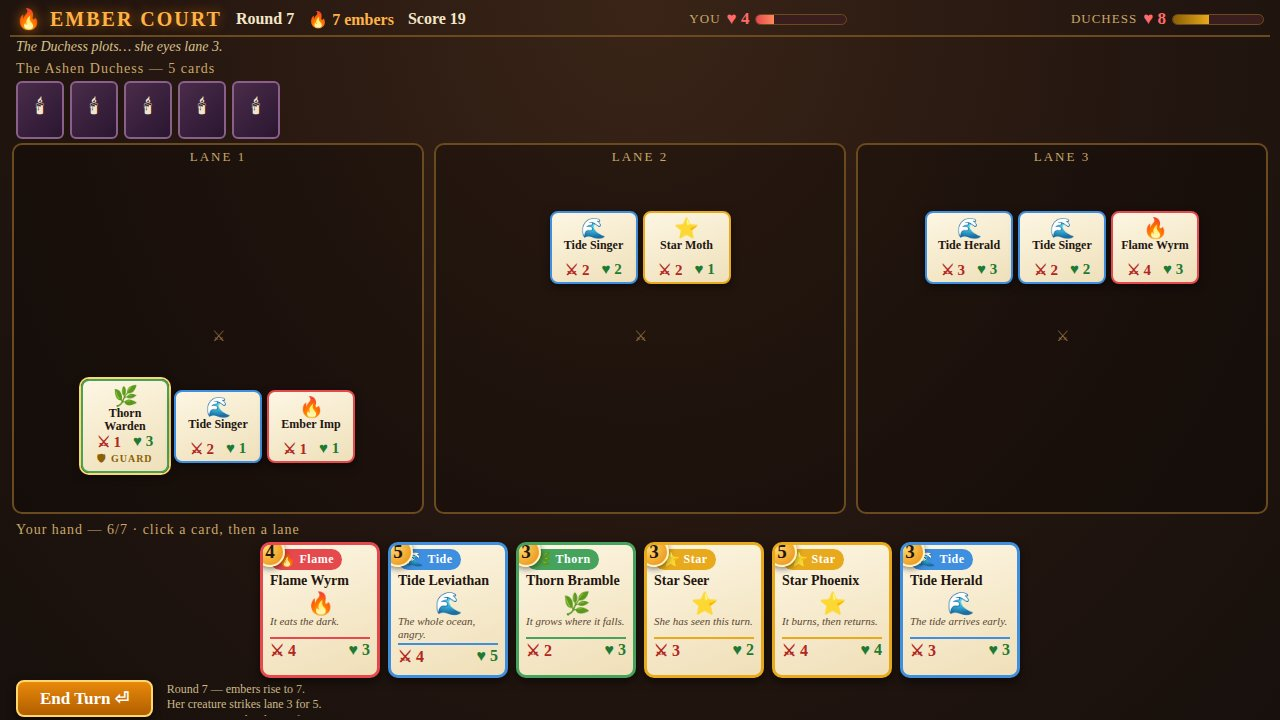
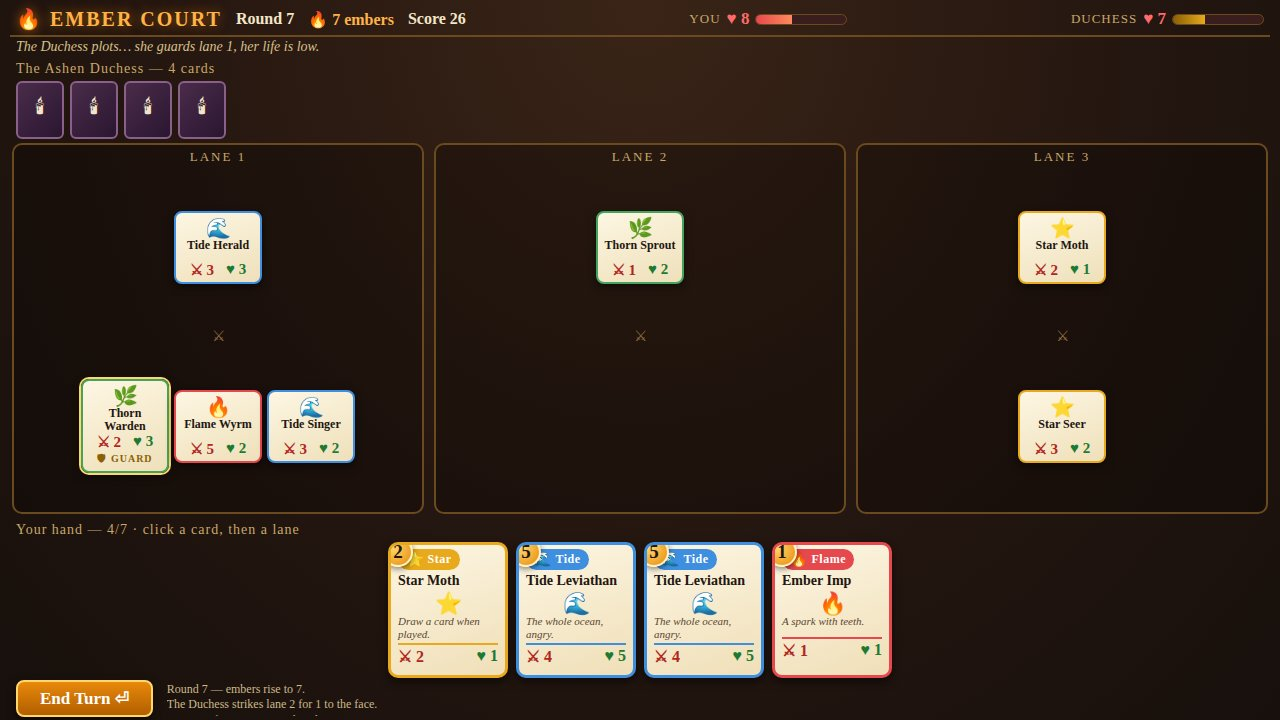
Fix High Tide per-turn, starting hand 5, Kindled display
- High Tide: per-turn flag (highTideThisTurn, reset in startRound) so it
  can fire once every turn, not once per game; playedSuitsThisTurn cleared
  before the Duchess's turn so her Tide cannot trigger the player's High Tide
- Starting hand: reset() draws START_HAND-1, the startRound() draw brings
  the opening hand to exactly 5 (was 6)
- Kindled: lane cards now show effectiveAttack() (base +1 when Flame+Thorn
  share the lane), the value combat actually uses

diff --git a/game/src/world.js b/game/src/world.js
@@ -24,7 +24,7 @@ function makeSide(random) {
   return { life: MAX_LIFE, hand: [], deck: shuffle(buildDeck(), random), lanes: [[], [], []], embers: 1 };
 }
 
-function effectiveAttack(creature, laneCreatures) {
+export function effectiveAttack(creature, laneCreatures) {
   const suits = new Set(laneCreatures.map((c) => c.suit));
   const kindled = suits.has('flame') && suits.has('thorn');
   return creature.attack + (kindled ? 1 : 0);
@@ -42,6 +42,7 @@ export function createWorld(random) {
     damageDealt: 0,
     damageTaken: 0,
     combos: [],
+    highTideThisTurn: false,
     playedSuitsThisTurn: [],
     player: makeSide(random),
     enemy: makeSide(random),
@@ -70,6 +71,7 @@ export function createWorld(random) {
     state.player.embers = Math.min(state.round, MAX_EMBERS);
     state.enemy.embers = Math.min(state.round, MAX_EMBERS);
     state.frozen = [false, false, false];
+    state.highTideThisTurn = false;
     state.playedSuitsThisTurn = [];
     drawCard('player');
     drawCard('enemy');
@@ -88,10 +90,11 @@ export function createWorld(random) {
     state.damageDealt = 0;
     state.damageTaken = 0;
     state.combos = [];
+    state.highTideThisTurn = false;
     state.playedSuitsThisTurn = [];
     state.player = makeSide(random);
     state.enemy = makeSide(random);
-    for (let i = 0; i < START_HAND; i += 1) {
+    for (let i = 0; i < START_HAND - 1; i += 1) {
       drawCard('player');
       drawCard('enemy');
     }
@@ -143,7 +146,8 @@ export function createWorld(random) {
 
   function checkCombos(side) {
     const suits = new Set(state.playedSuitsThisTurn);
-    if (suits.has('tide') && suits.has('star') && !state.combos.includes('High Tide')) {
+    if (suits.has('tide') && suits.has('star') && !state.highTideThisTurn) {
+      state.highTideThisTurn = true;
       state.combos.push('High Tide');
       drawCard(side);
       say('High Tide! Tide + Star in one turn — draw a card.');
@@ -250,6 +254,9 @@ export function createWorld(random) {
   function endPlayerTurn(aiTakeTurn) {
     if (state.over || state.phase !== 'player') return;
     state.phase = 'enemy';
+    // The Duchess's suits are her own turn: clear the player's suits so her
+    // Tide cannot combine with the player's Star (or vice versa).
+    state.playedSuitsThisTurn = [];
     aiTakeTurn(state);
     checkEnd();
     if (!state.over) {

diff --git a/game/src/render.js b/game/src/render.js
@@ -2,6 +2,7 @@
 // text stays legible at thumbnail size; suits are colour AND shape (a coloured
 // badge with a glyph), costs and attack/health are big and high-contrast.
 import { cardById, SUITS, MAX_LIFE } from './config.js';
+import { effectiveAttack } from './world.js';
 
 export const SCREEN_TITLE = 'title';
 export const SCREEN_PLAY = 'play';
@@ -50,7 +51,8 @@ function cardFace(card, { affordable = true, small = false } = {}) {
 }
 
 // A creature standing in a lane: smaller card with live attack/health.
-function laneCreature(creature, side) {
+// Attack shown is the Kindled-boosted value combat actually uses.
+function laneCreature(creature, laneCreatures) {
   const card = cardById(creature.cardId);
   const suit = SUITS[creature.suit];
   const node = el('div', `lane-card suit-${creature.suit}${creature.ability === 'guard' ? ' guard' : ''}`);
@@ -62,7 +64,7 @@ function laneCreature(creature, side) {
     el('div', 'lane-stats'),
   );
   const stats = node.querySelector('.lane-stats');
-  stats.append(el('span', 'atk', `⚔ ${creature.attack}`), el('span', 'hp', `♥ ${creature.health}`));
+  stats.append(el('span', 'atk', `⚔ ${effectiveAttack(creature, laneCreatures)}`), el('span', 'hp', `♥ ${creature.health}`));
   if (creature.ability === 'guard') node.append(el('div', 'guard-tag', '🛡 GUARD'));
   node.title = `${creature.name} — ${card.text}`;
   return node;
@@ -136,10 +138,10 @@ export function createRenderer(root) {
       laneEl.addEventListener('click', () => onLaneClick && onLaneClick(lane));
       const head = el('div', 'lane-head', `LANE ${lane + 1}${state.frozen[lane] ? ' ❄ FROZEN' : ''}`);
       const foeSide = el('div', 'lane-side foe-side');
-      for (const creature of enemy.lanes[lane]) foeSide.append(laneCreature(creature, 'enemy'));
+      for (const creature of enemy.lanes[lane]) foeSide.append(laneCreature(creature, enemy.lanes[lane]));
       const mid = el('div', 'lane-mid', '⚔');
       const mySide = el('div', 'lane-side my-side');
-      for (const creature of player.lanes[lane]) mySide.append(laneCreature(creature, 'player'));
+      for (const creature of player.lanes[lane]) mySide.append(laneCreature(creature, player.lanes[lane]));
       laneEl.append(head, foeSide, mid, mySide);
       board.append(laneEl);
     }
